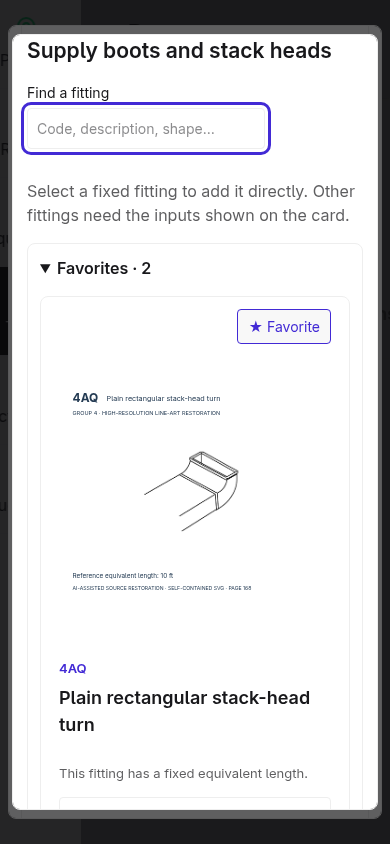
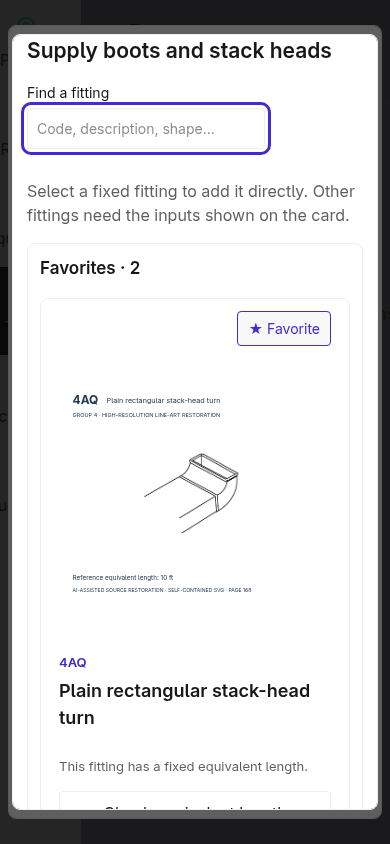
Show favorite fitting copies immediately when groups open

diff --git a/Public/js/fitting-path.js b/Public/js/fitting-path.js
@@ -168,8 +168,8 @@
       $('#catalog-favorite-count').textContent = grid.children.length;
       updateFavoriteButtons(); filterFittings();
       if (active?.isConnected && grid.contains(active)) active.focus({ preventScroll: true });
-      else if (active && !active.isConnected) $('#catalog-favorites > summary').focus({ preventScroll: true });
-      // Adding/removing copies above an expanded catalog must not move the source card
+      else if (active && !active.isConnected) $('#catalog-favorites-title').focus({ preventScroll: true });
+      // Adding/removing copies above the catalog must not move the source card
       // on screen. Measure after the browser's own scroll anchoring has run.
       if (top !== null && anchor.isConnected) $('#picker-dialog').scrollTop += anchor.getBoundingClientRect().top - top;
     }
@@ -241,7 +241,7 @@
         finally {
           favoriteRequests.delete(id); updateFavoriteButtons();
           if (hadFocus && [document.body, root, $('#picker-dialog')].includes(document.activeElement)) {
-            (button.isConnected ? button : $('#catalog-favorites > summary'))?.focus({ preventScroll: true });
+            (button.isConnected ? button : $('#catalog-favorites-title'))?.focus({ preventScroll: true });
           }
         } return;
       }

diff --git a/Sources/ViewController/Views/FittingPicker/ProjectFittingPathController.swift b/Sources/ViewController/Views/FittingPicker/ProjectFittingPathController.swift
@@ -222,8 +222,11 @@ struct GroupBrowserView: HTML, Sendable {
     p(.class("muted")) {
       "Select a fixed fitting to add it directly. Other fittings need the inputs shown on the card."
     }
-    details(.id("catalog-favorites"), .class("catalog-favorites")) {
-      summary {
+    section(
+      .id("catalog-favorites"), .class("catalog-favorites"),
+      .init(name: "aria-labelledby", value: "catalog-favorites-title")
+    ) {
+      h3(.id("catalog-favorites-title"), .init(name: "tabindex", value: "-1")) {
         "Favorites · "
         span(.id("catalog-favorite-count")) { "0" }
       }

diff --git a/Public/css/fitting-favorites.css b/Public/css/fitting-favorites.css
@@ -3,7 +3,7 @@
     border: 1px solid var(--line); border-radius: var(--radius-box, 10px);
     padding: 12px; margin: 16px 0; font-size: inherit; color: var(--text);
   }
-  .catalog-favorites > summary { font-weight: 600; min-height: 24px; }
+  .catalog-favorites > h3 { font-weight: 600; min-height: 24px; }
   .favorite-grid { margin-top: 16px; }
   .catalog-list-title { margin: 16px 0 12px; }
 

diff --git a/docs/fitting-picker-preview.md b/docs/fitting-picker-preview.md
@@ -30,9 +30,9 @@ the editor and draft open.
   a calculated fitting. Repeated rows stay separate.
 - Save/reopen, rename, quantity edits, removal, and fitting edits work on real project paths.
 - Favorites are stored per user in the database and shared across projects/devices.
-  A collapsible **Favorites** area holds duplicate cards for the current group. Originals
-  stay in the complete list. Starring a fitting keeps its position, scroll location, and
-  inputs intact, including when the Favorites area is expanded. Either copy can add to
+  An always-visible **Favorites** area above the full list holds duplicate cards for the
+  current group. Originals stay in the complete list. Starring a fitting keeps its position, scroll location, and
+  inputs intact, while favorite copies are added above the list. Either copy can add to
   the path. Favorites save the fitting choice; each card starts at catalog defaults and
   has independent draft inputs. Search and shape ordering apply to both lists.
 - Groups 1, 2, 3, 5, and 6 show non-blocking repeated-use warnings. Changing path type
@@ -75,7 +75,7 @@ the editor and draft open.
 | `Sources/DatabaseClient` | Additive saved-row metadata, project ownership lookup, and per-user favorites |
 | `Public/js/fitting-path.js`, `group-carousel.js` | Interaction state, gestures, requests, quantities, and totals |
 | `Public/css/fitting-path-modal.css` | Desktop/mobile editor dimensions and spacing |
-| `Public/css/fitting-favorites.css` | Collapsible favorite-copy layout |
+| `Public/css/fitting-favorites.css` | Always-visible favorite-copy layout |
 | `Public/css/picker-preference.css` | Scoped preference toggle styles |
 | `Public/css/fitting-path.css` | Scoped presentation ported from the agreed prototype |
 
@@ -167,6 +167,6 @@ The modal change passes all **15 Swift view and picker tests**. Browser flows sa
 to the list and reopen through its Edit link. The modal check verifies viewport sizing,
 child-dialog dismissal and focus restoration, accepted/declined discard, failed-save
 retention, and cancellation with no changes. The favorites check verifies the exact
-scroll → star → add sequence, unchanged card coordinates with Favorites collapsed or
-expanded, adding from both copies, independent conditional inputs, search, mobile layout,
+scroll → star → add sequence, favorites visible on group load, unchanged card coordinates
+when copies are added, adding from both copies, independent conditional inputs, search, mobile layout,
 Group 11 copy controls, keyboard focus restoration, and failed favorite writes. All **7 Swift picker tests** also pass after the favorites change. Temporary test session data and screenshots are written to `/tmp`.
